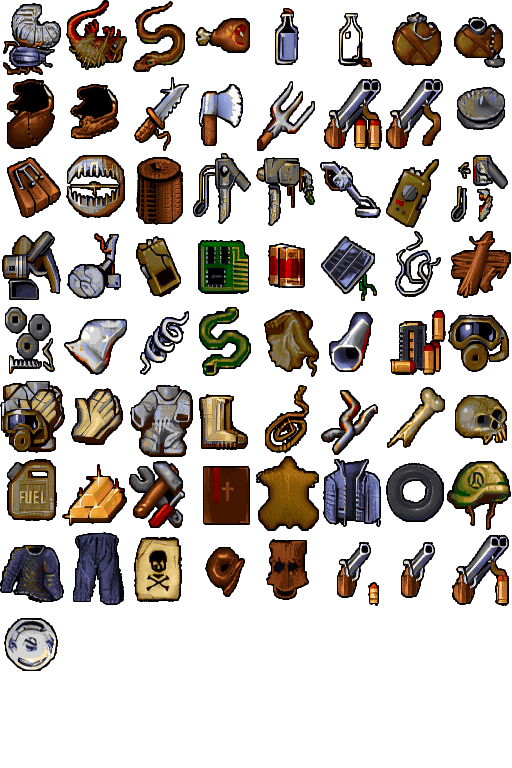
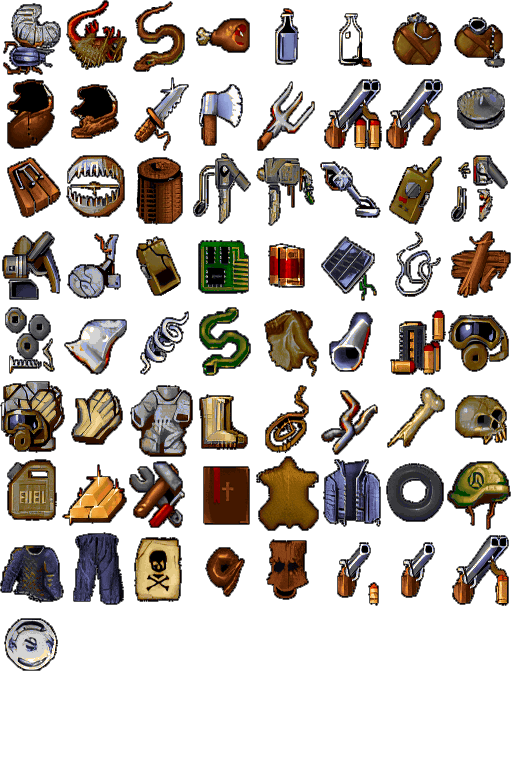
fix radio construction

diff --git a/resources/Changelog.md b/resources/Changelog.md
@@ -8,6 +8,7 @@
 - Fixed AI player's shadow remaining after death
 - Fixed doctors not healing stationed NPCs
 - Fixed New Village name, rooms etc.
+- Fixed radio construction
 
 ### 0.9.1
 
